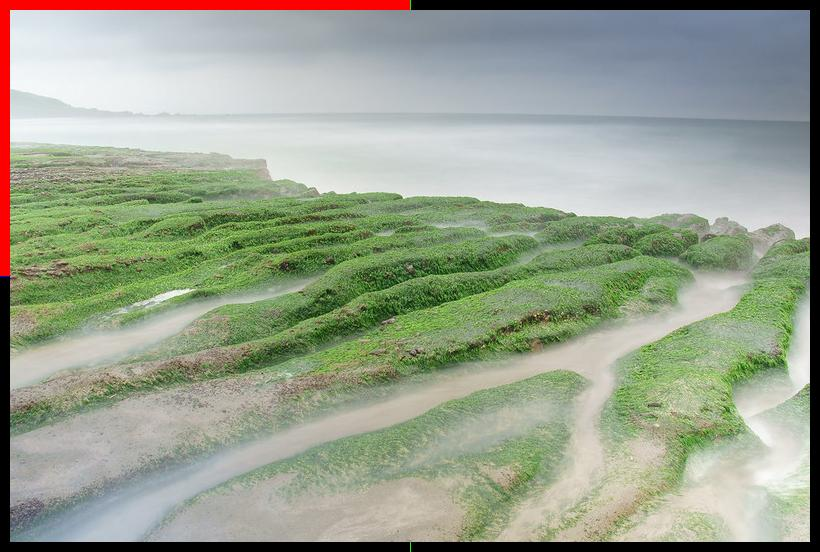
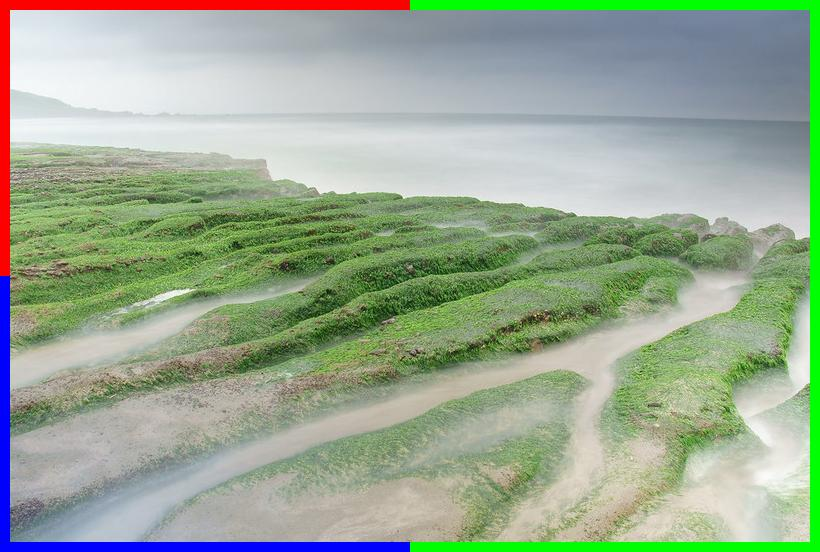
繪製有不同背景顏色邊框的圖形

Changed region(s): [[0.0, 0.0, 1.0, 1.0]]

diff --git a/image.php b/image.php
@@ -90,10 +90,11 @@ $border_dst=imagecreatetruecolor($bwidth,$bheight);
 $border_color_red=imagecolorallocate($border_dst,255,0,0);
 $border_color_green=imagecolorallocate($border_dst,0,255,0);
 $border_color_blue=imagecolorallocate($border_dst,0,0,255);
-
-imagefilledrectangle($border_dst,0,0,($bwidth/2),($bheight/2),$border_color_red);
-imagefilledrectangle($border_dst,0,($bheight/2),($bwidth/2),($bheight/2),$border_color_blue);
-imagefilledrectangle($border_dst,($bwidth/2),0,($bwidth/2),$bheight,$border_color_green);
+echo $bwidth/2;
+echo $bheight/2;
+imagefilledrectangle($border_dst,0,0,round(($bwidth/2)),round(($bheight/2)),$border_color_red);
+imagefilledrectangle($border_dst,0,round(($bheight/2)),round(($bwidth/2)),$bheight,$border_color_blue);
+imagefilledrectangle($border_dst,round(($bwidth/2)),0,$bwidth,$bheight,$border_color_green);
 
 imagecopyresampled($border_dst,$src,$border,$border,0,0,$src_info[0],$src_info[1],$src_info[0],$src_info[1]);
 imagejpeg($border_dst,"./images/border_{$_FILES['file']['name']}");
